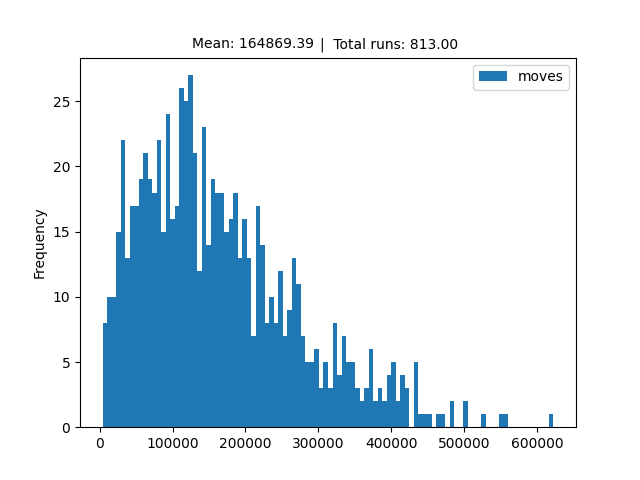
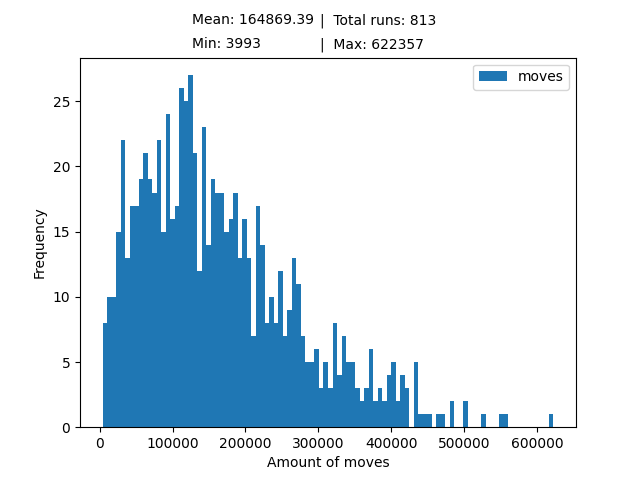
More experiments and results

Changed region(s): [[0.2812, 0.0312, 0.7188, 0.125], [0.4062, 0.9375, 0.625, 0.9688]]

diff --git a/code/main.py b/code/main.py
@@ -4,7 +4,7 @@ from algorithms.depth_first import DepthFirst
 from algorithms.breadth_first import BreadthFirst
 from algorithms.branch_and_bound import BranchAndBound
 from algorithms.beam_search import BeamSearch
-from code.algorithms.dijkstra import Dijkstra
+# from algorithms.dijkstra import Dijkstra
 from classes.models import RushHour
 from visualisation.histogram import histogram_plot
 from visualisation.hist_compare_algorithms import compare_plot
@@ -17,7 +17,7 @@ from experiments.breadthfirst_experiment import breadth_first_experiment
 from experiments.depthfirst_experiment import depth_first_experiment
 from experiments.greedy_experiment import determine_greedy_solution
 from experiments.beamsearch_experiment import beamsearch_experiment
-from experiments.dijkstra_experiment import dijkstra_many_times
+# from experiments.dijkstra_experiment import dijkstra_many_times
 from experiments.bf_compare import bf_plot
 
 from sys import argv
@@ -37,9 +37,9 @@ if __name__ == '__main__':
     # To experiment add the correct board to the command
     # board = "6x6_1"
     # board = "6x6_2"
-    board = "6x6_3"
+    # board = "6x6_3"
     # board = "9x9_4"
-    # board = "9x9_5"
+    board = "9x9_5"
     # board = "9x9_6"
     # board = "12x12_7"
             
@@ -48,10 +48,6 @@ if __name__ == '__main__':
         if argv[3] == "random":
             random_algorithm = Random(game)
             random_algorithm.run()
-        elif argv[3] == "randomplt":
-            histogram_plot(f"results/random_moves_{board}.csv", f'results/output{board}_random_graph_moves.png')
-        elif argv[3] == "greedyplt":
-            histogram_plot(f"results/greedy_moves_{board}.csv", f'results/output{board}_greedy_graph_moves.png')       
         elif argv[3] == "random_optimized":
             random_algorithm = Random(game)
             random_algorithm.run()
@@ -96,8 +92,6 @@ if __name__ == '__main__':
             breadth_first_experiment(boardsize, board, 15)
             depth_first_experiment(boardsize, board, 15)
             compare_plot(board)
-        # elif argv[3] == "depth_exp":
-        #     depth_first_experiment(boardsize, board, 100)
         elif argv[3] == "breadth_exp":
             breadth_first_experiment(boardsize, board, 1)
         elif argv[3] == "beam_exp":
@@ -105,14 +99,25 @@ if __name__ == '__main__':
             # python3 code/main.py 6 gameboards/Rushhour6x6_1.csv beam_exp 
         elif argv[3] == "graph":
             test(boardsize, boardfile)
-        elif argv[3] == "dijkstra":
-            dijkstras_algorithm = Dijkstra(boardsize, boardfile)
-            dijkstras_algorithm.build_graph(100_000, 1_000_000, 2000)
-            dijkstras_algorithm.run()
-            dijkstras_algorithm.export_solution()
-        elif argv[3] == "dijkstra_test":
-            dijkstra_many_times(boardsize, boardfile)
-        # Run this if you want to play the game yourself
+        # elif argv[3] == "dijkstra":
+        #     dijkstras_algorithm = Dijkstra(boardsize, boardfile)
+        #     dijkstras_algorithm.build_graph(100_000, 1_000_000, 2000)
+        #     dijkstras_algorithm.run()
+        #     dijkstras_algorithm.export_solution()
+        # elif argv[3] == "dijkstra_test":
+        #     dijkstra_many_times(boardsize, boardfile)
+        
+        # Code to easily adjust the plots
+        elif argv[3] == "randomplt":
+            histogram_plot(f"results/random_moves_{board}.csv", f'results/output{board}_random_graph_moves.png')
+        elif argv[3] == "greedyplt":
+            histogram_plot(f"results/greedy_moves_{board}.csv", f'results/output{board}_greedy_graph_moves.png')
+        elif argv[3] == "random_optimizedplt":
+            histogram_plot(f"results/random_optimized_moves_{board}.csv", f'results/output{board}_random_graph_optimized_moves.png')
+        elif argv[3] == "dfplt":
+            histogram_plot(f"results/depth_first_moves_{board}.csv", f'results/output{board}_depth_first_moves.png') 
+                           
+        # Run this if you want to play the game yourself (just for fun)
         elif argv[3] == "play":
             game.start_game()
             
@@ -134,11 +139,9 @@ if __name__ == '__main__':
         elif argv[3]== "beam":   
             beamsearch_experiment(boardsize, board, 1000)
             histogram_plot(f"results/beam_search/random_optimized_moves_{board}.csv", f'results/beam_search/output{board}_beamsearch.png')     
-
-         
-           
+      
     # Animate every algorithm game using pygame
     elif len(argv) > 4 and argv[4] == "animate":
-        results_file = "results/output.csv"
+        results_file = "results/output_breadth_first_moves_9x9_5.csv"
         newgame = PygameRushHour(boardsize, boardfile, results_file)
         newgame.start()

diff --git a/code/visualisation/histogram.py b/code/visualisation/histogram.py
@@ -16,6 +16,7 @@ def histogram_plot(path_board: str, path_output: str):
     data_max = moves.max()
 
     # Plot the histogram
+    # histogram_t = data_filtered.plot.hist(bins=100, column=['moves'])
     histogram_t = data.plot.hist(bins=100, column=['moves'])
     plot_t = histogram_t.get_figure()
 
@@ -24,6 +25,7 @@ def histogram_plot(path_board: str, path_output: str):
     plt.text(0.50, 0.95, f"|  Total runs: {data_total}", transform=plot_t.transFigure)
     plt.text(0.30, 0.90, f"Min: {data_min}", transform=plot_t.transFigure)
     plt.text(0.50, 0.90, f"|  Max: {data_max}", transform=plot_t.transFigure)
+    plt.xlabel('Amount of moves')
     
     # Save and show the plot
     plot_t.savefig(path_output)

diff --git a/code/experiments/README.md b/code/experiments/README.md
@@ -108,7 +108,7 @@ Input:
 python3 main.py 6 gameboards/Rushhour6x6_1.csv depthfirst histogram
 ```
 
-![breadth_first_scores.png](https://github.com/pluumenbrownie/rush_hour/blob/main/results/breadth_first_scores.png) 
+![exp_6x6_1_depth_first_moves.png](https://github.com/pluumenbrownie/rush_hour/blob/main/results/exp_6x6_1_depth_first_moves.png) 
 
 ### Breadthfirst
 Net zoals bij een depthfirst gaat het breadthfirst algorite alle mogelijke staten van het bord af en geeft door middel van een queue gelijk de beste oplossing.  
@@ -117,9 +117,9 @@ In het volgende figuur is te zien wat dit breathfirst algoritme als beste oploss
 
 Door een tekort aan geheugen is het niet gelukt om borden 9x9_6 & 12x12_7 op te lossen met breadthfirst.  
 
-Input
+Input:
 ```
 python3 main.py 6 gameboards/Rushhour6x6_1.csv bf_compare
 ```
 
-![exp_6x6_1_depth_first_moves.png](https://github.com/pluumenbrownie/rush_hour/blob/main/results/exp_6x6_1_depth_first_moves.png) 
+![breadth_first_scores.png](https://github.com/pluumenbrownie/rush_hour/blob/main/results/breadth_first_scores.png) 
